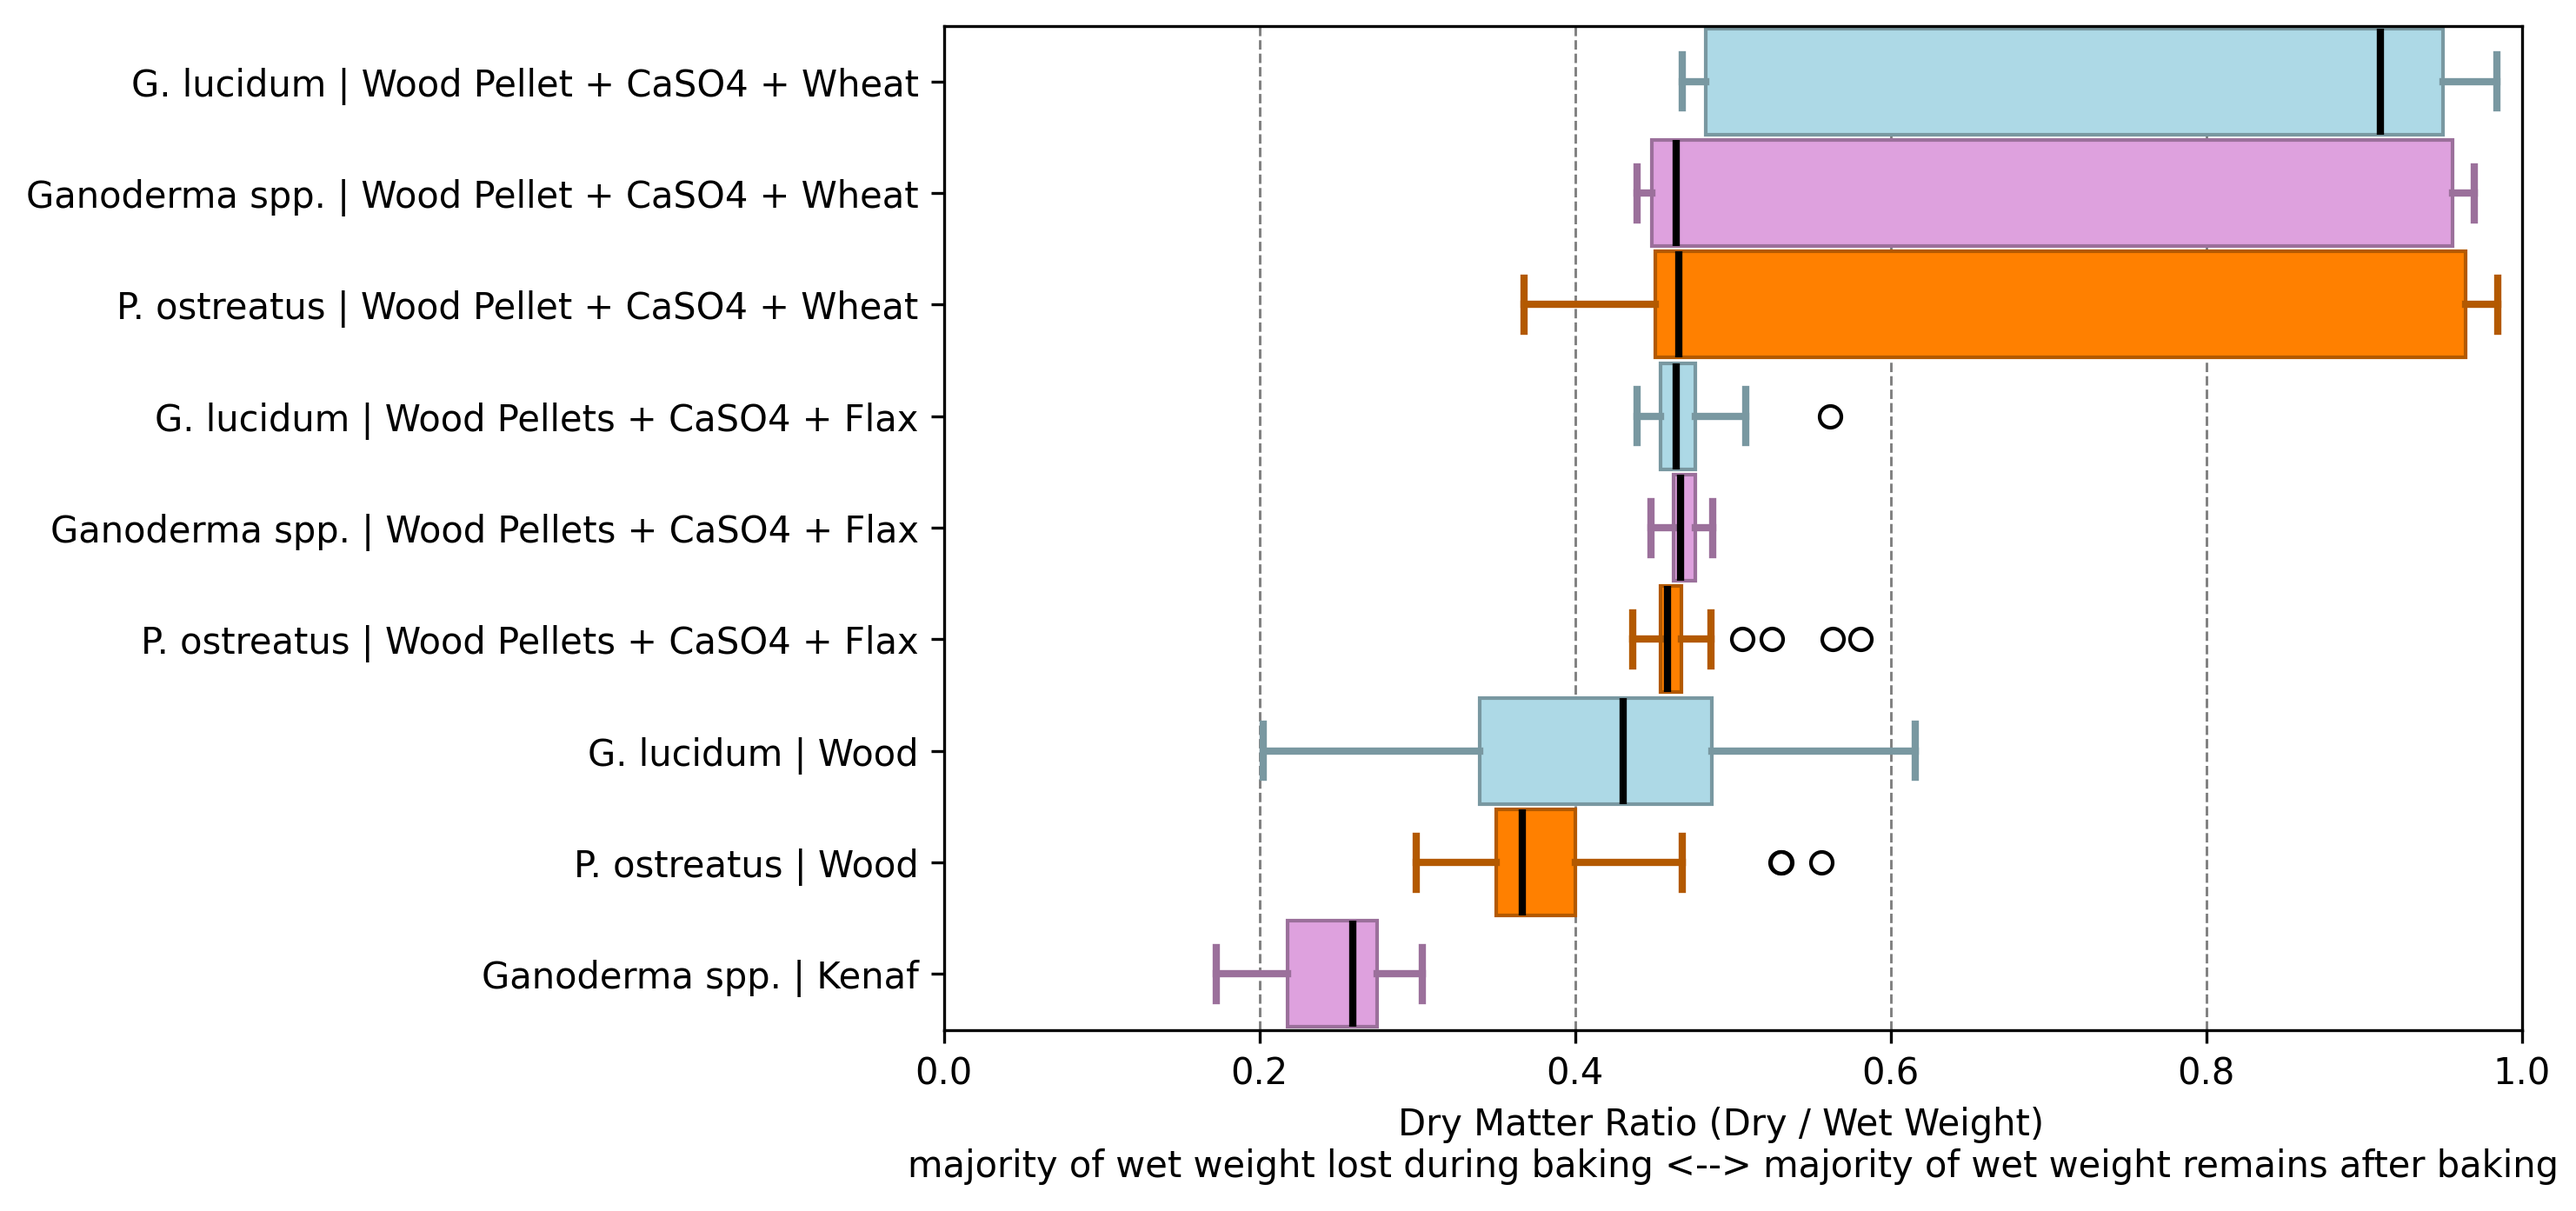
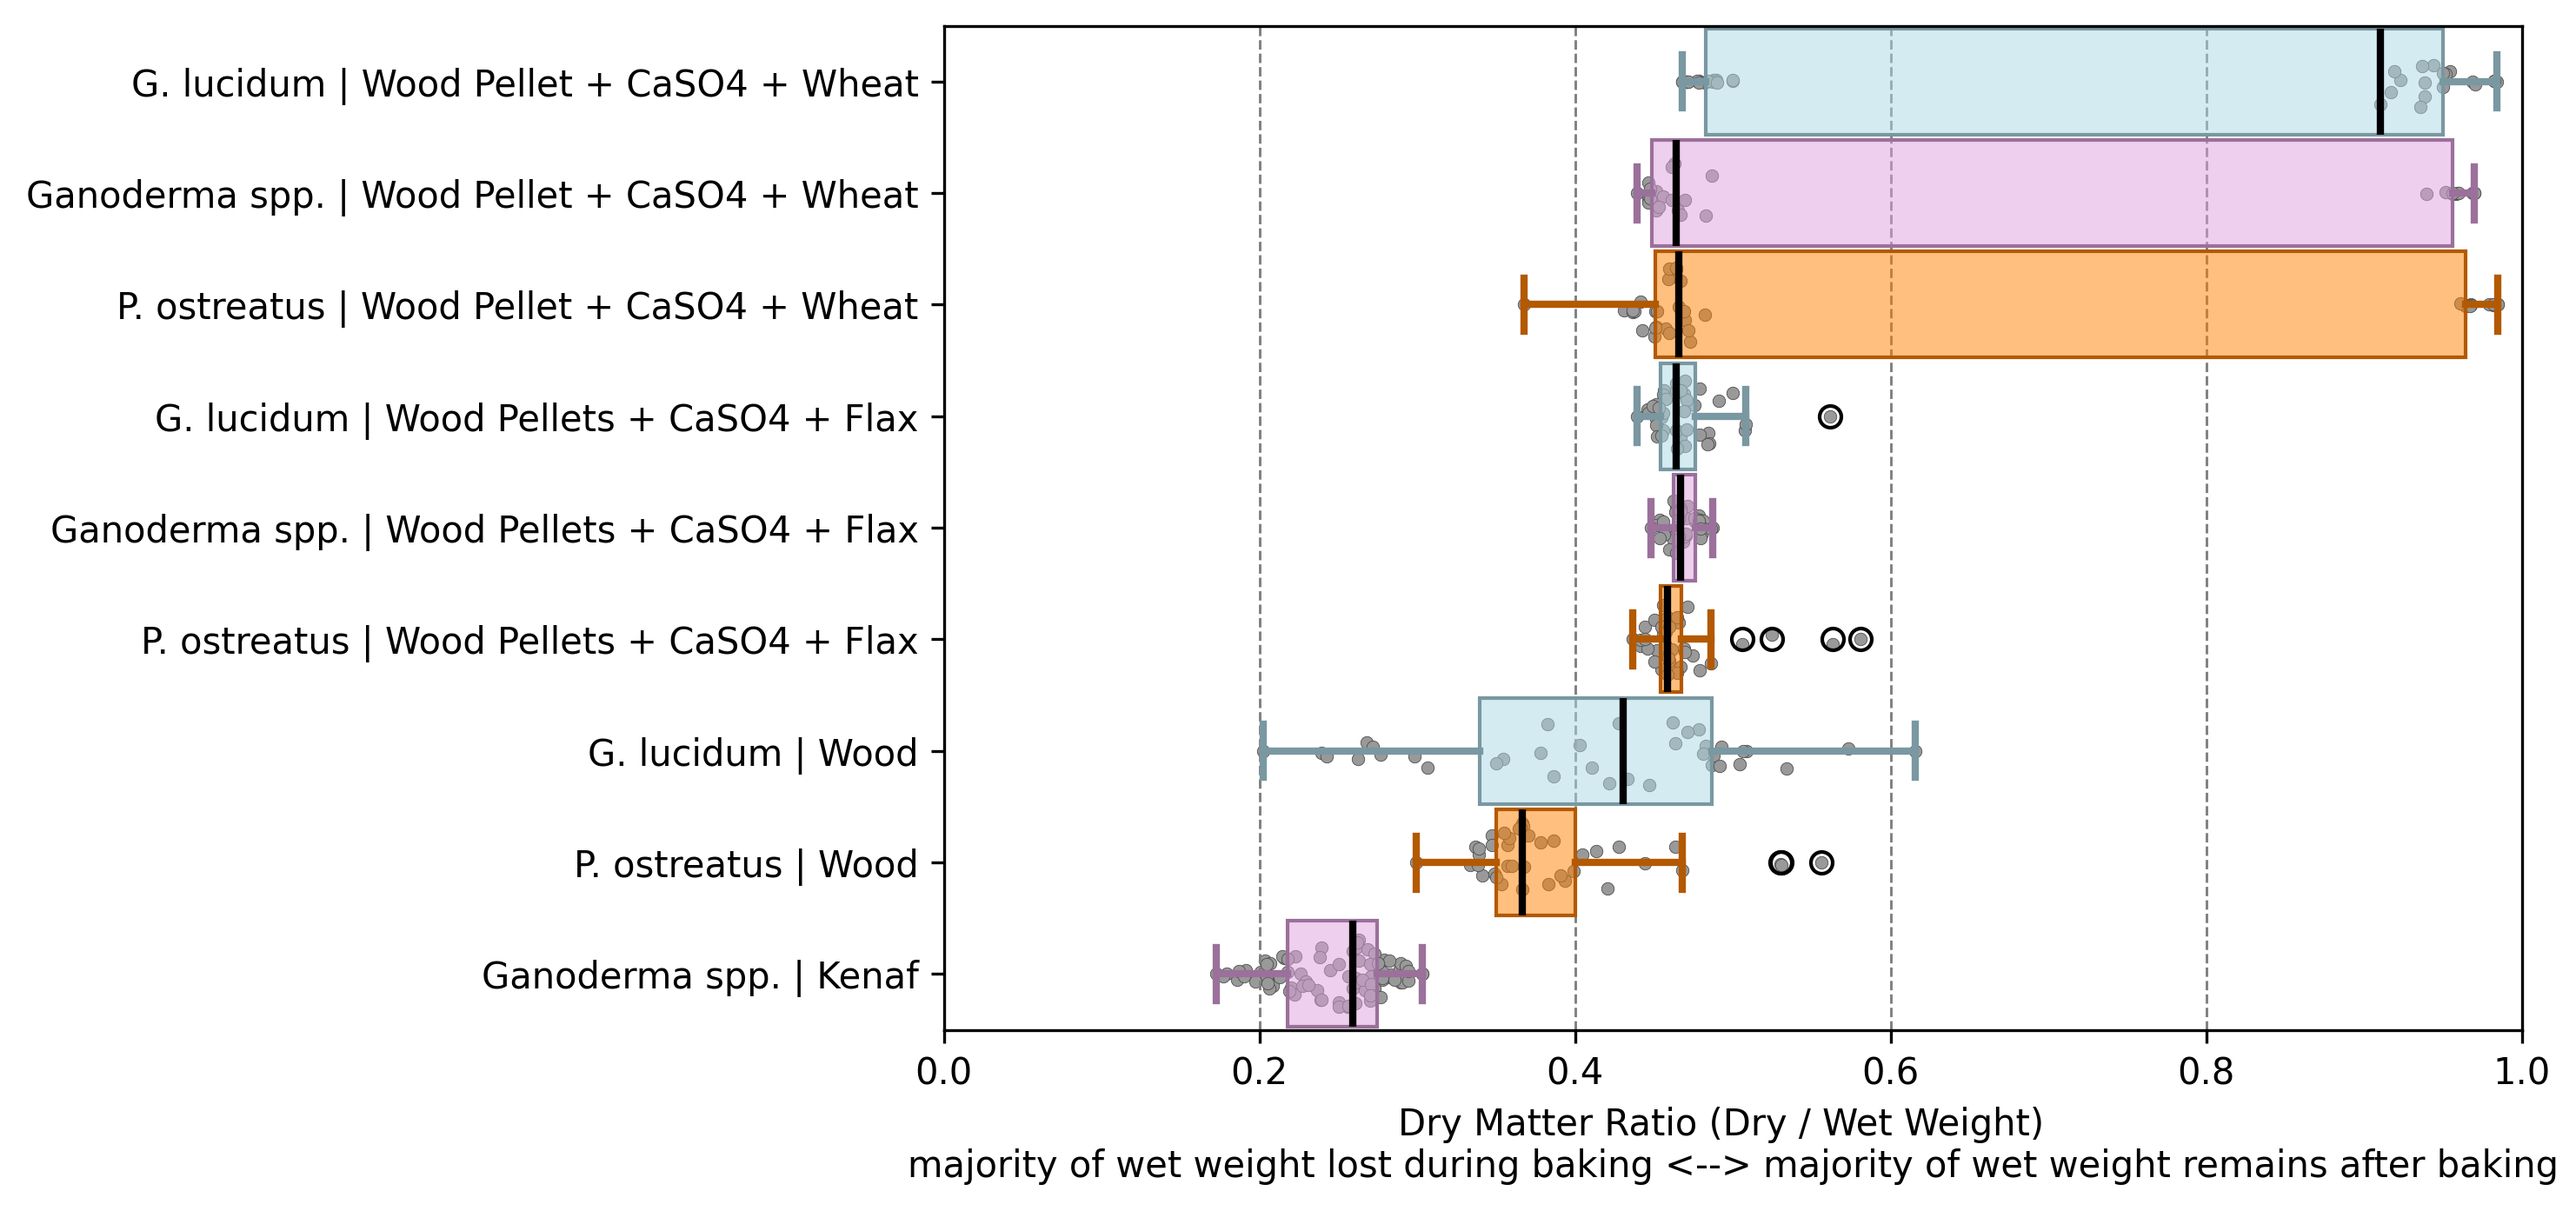
added plots

Changed region(s): [[0.621, 0.0, 0.9625, 0.463], [0.5278, 0.4939, 0.6831, 0.7717], [0.4657, 0.7408, 0.5589, 0.8643]]

diff --git a/code/python/main.py b/code/python/main.py
@@ -3,6 +3,7 @@ import json
 import matplotlib.pyplot as plt
 import numpy as np
 import os
+import random 
 import pandas as pd
 import statistics
 
@@ -74,12 +75,16 @@ def list_for_boxplot(dst_json, fil):
 
  
     plt.figure(figsize=(11, 5))
+
+    
+    
+
     box = plt.boxplot(drybywets, vert=False, patch_artist=True, medianprops=dict(color='black', linewidth=2), widths=0.95)
 
     # Define different colors for each box
-    gano_luc = [0.68, 0.85, 0.9]
-    gano_spp = [0.87, 0.63, 0.87]
-    pleu_ost = [1.0, 0.5, 0.0]
+    gano_luc = [0.68, 0.85, 0.9, 0.5]
+    gano_spp = [0.87, 0.63, 0.87, 0.5]
+    pleu_ost = [1.0, 0.5, 0.0, 0.5]
     colors_face = [gano_spp, pleu_ost, gano_luc, pleu_ost, gano_spp, gano_luc, pleu_ost, gano_spp, gano_luc]
 
 
@@ -108,6 +113,10 @@ def list_for_boxplot(dst_json, fil):
     for cap, color in zip(box['caps'], colors_whisker):
         cap.set_color(color)
         cap.set_linewidth(2)
+    
+
+
+
 
     plt.xlabel("Dry Matter Ratio (Dry / Wet Weight)  " + "\n" + "majority of wet weight lost during baking <--> majority of wet weight remains after baking")
     #plt.ylabel("Strain, Substrate")
@@ -115,10 +124,53 @@ def list_for_boxplot(dst_json, fil):
     plt.subplots_adjust(left=0.35)
     plt.xlim(0, 1)  # Limits from 0 to 1
     plt.grid(axis='x', linestyle='--', color='gray', linewidth=0.7)
+
+    add_scatter(dst_json)
     
     plot_dst = os.path.join("baking", fil + ".png")
     plt.savefig(plot_dst, dpi=300, bbox_inches="tight")  # Save as PNG
     plt.show()
+    
+
+def add_scatter(dst_json):
+    """
+    add scatter 
+    """
+
+
+    for key in dst_json:
+        
+        print("key = ") 
+        print(key)
+
+        drybywets = []
+        names = []
+
+        for i in range(len(dst_json[key])):
+
+            name = str(dst_json[key][i]["name"])
+            print(type(name))
+
+            print("name found = " + name)
+
+            xx = dst_json[key][i]["dry by wet"]
+            
+            
+            yy = []
+            for x in xx: 
+
+                fac = 0.7
+
+                if x > np.median(xx): fac = (max(xx) - x)/(max(xx) - np.median(xx))*fac 
+                elif x < np.median(xx): fac = (x - min(xx))/(np.median(xx) - min(xx))*fac 
+
+
+                ran = fac*random.random()
+                yy.append(i+1-fac/2+ran)
+
+            plt.scatter(xx,yy, color=[0.6, 0.6, 0.6], edgecolors = [0.3, 0.3, 0.3], linewidths=.2, s=12)
+
+    
     
 
 
